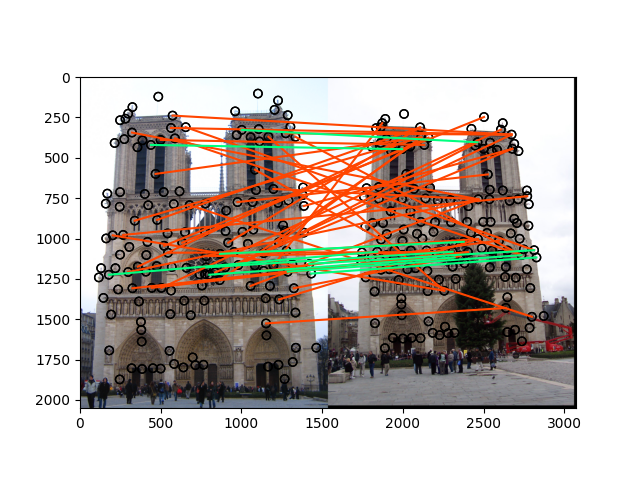
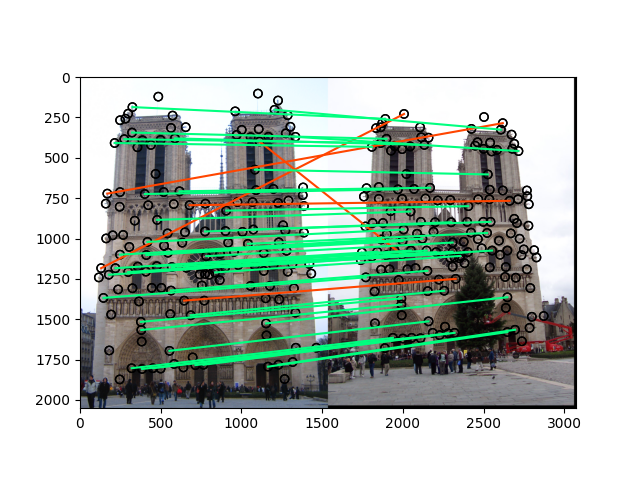
90% accuracy on notre_dame

Changed region(s): [[0.1562, 0.2188, 0.8438, 0.7812]]

diff --git a/HW2/code/student.py b/HW2/code/student.py
@@ -219,7 +219,7 @@ def get_features(image, x, y, feature_width):
         num_rows = len(im)
         num_cols = len(im[0])
 
-        orientations = [0, np.pi/6, np.pi/2, 5*np.pi/6]
+        orientations = [0, np.pi/4, np.pi/2, 3*np.pi/4, np.pi, 5*np.pi/4, 3*np.pi/2, 7*np.pi/4]
         gray_mags = []
         magnitude_array = []
         
@@ -260,6 +260,7 @@ def get_features(image, x, y, feature_width):
     # magnitude = np.sqrt(dx**2 + dy**2)
     # direction = np.arctan2(dy, dx)
 
+    # method 0, using the oriented filter
     # magnitude, direction, filter_set = orientedFilterMagnitude(image)
 
     # STEP 3: For each interest point, calculate the local histogram based on related 4x4 grid cells.
@@ -267,6 +268,7 @@ def get_features(image, x, y, feature_width):
     #         For each cell, we assign these gradient vectors corresponding to these pixels to 8 bins
     #         based on the direction (angle) of the gradient vectors. 
 
+    # Method 1: gradient calculation
     image_blurred = cv2.GaussianBlur(image, (5, 5), 1)
 
     sobel_x = np.array([[1, 0, -1], [2, 0, -2], [1, 0, -1]])
@@ -275,22 +277,41 @@ def get_features(image, x, y, feature_width):
     x_gradient = cv2.filter2D(image_blurred, -1, sobel_x)
     y_gradient = cv2.filter2D(image_blurred, -1, sobel_y)
     direction = np.arctan2(y_gradient, x_gradient)
+    direction = (direction + 2*np.pi) % (2*np.pi)
     magnitude = np.sqrt(x_gradient**2 + y_gradient**2)
+
+    # print(f"direction max: {np.max(direction)}")
+    # print(f"direction min: {np.min(direction)}")
+
+    # Method 2: gradient calculation using skimage, this performs worse for some reason
+    # image_blurred = filters.gaussian(image, sigma=1)
+    # x_gradient = filters.sobel_v(image_blurred)
+    # y_gradient = filters.sobel_h(image_blurred)
+    # direction = np.arctan2(y_gradient, x_gradient)
+    # magnitude = np.sqrt(x_gradient**2 + y_gradient**2)
+
+    print(f"all X: {x}")
+    print(f"all Y: {y}")
+
+    plt.imshow(magnitude, cmap='gray')
 
     features = []
 
     def normalize_array(arr):
-        min_val = np.min(arr)
-        max_val = np.max(arr)
-        normalized_arr = (arr - min_val) / (max_val - min_val)
+        normalized_arr = arr / np.linalg.norm(arr)
         return normalized_arr
 
+    # dirs_considered = []
+    # indices = []
 
     # Iterate over keypoints
-    for x_coordinate, y_coordinate in zip(x, y):
+    for y_coordinate, x_coordinate in zip(x, y):
 
         x_coordinate = int(x_coordinate)
         y_coordinate = int(y_coordinate)
+
+        # get the gradient vector for the center pixel
+        # center_pixel_direction = direction[x_coordinate][y_coordinate] # this shouldn't be breaking, we aren't out of the image
 
         # Compute histogram of gradients
         histogram16x16 = []
@@ -307,7 +328,10 @@ def get_features(image, x, y, feature_width):
                         if original_x < 0 or original_x >= image.shape[0] or original_y < 0 or original_y >= image.shape[1]:
                             continue
 
-                        histogram4x4[int(direction[original_x][original_y] / (np.pi / 4))] += magnitude[original_x, original_y]
+                        # histogram4x4[int(direction[original_x][original_y] / (np.pi / 4))] += magnitude[original_x, original_y]
+                        histogram4x4[int((direction[original_x][original_y]) / (np.pi / 4))] += 1         # more accuracy as of now
+                        # dirs_considered.append(direction[original_x][original_y])
+                        # indices.append(int(direction[original_x][original_y] / (np.pi / 4)))
                         
                         # histogram4x4[int(direction[original_x][original_y] / (np.pi / 4))] += 1
                 # histogram4x4 /= np.linalg.norm(histogram4x4)
@@ -318,6 +342,10 @@ def get_features(image, x, y, feature_width):
         histogram16x16 = normalize_array(histogram16x16)
         features.append(histogram16x16)
 
+    # print(f"dirs considered max: {np.max(dirs_considered)}")
+    # print(f"dirs considered min: {np.min(dirs_considered)}")
+    # print(f"indices max: {np.max(indices)}")
+    # print(f"indices min: {np.min(indices)}")
 
     # STEP 4: Now for each cell, we have a 8-dimensional vector. Appending the vectors in the 4x4 cells,
     #         we have a 128-dimensional feature.
@@ -333,7 +361,20 @@ def get_features(image, x, y, feature_width):
 
     # This is a placeholder - replace this with your features!
     # features = np.zeros((len(x),128))
+    
+    # [(613.3341121495325, 72.62383177570086)]
+    # [(541.2344479004664, 142.65590979782246)]
 
+    # find index of 613.3341121495325 in x
+    # idx_x1 = np.where(x == 613.3341121495325)
+    # print(f"idx_x1: {idx_x1}")
+
+    # idx_x2 = np.where(x == 541.2344479004664)
+    # print(f"idx_x2: {idx_x2}")
+    print(f"at 3: {x[3]}, {y[3]}")
+    print(list(features[3]))
+
+    
     return features
 
 
@@ -384,19 +425,24 @@ def match_features(im1_features, im2_features):
     D = np.sqrt(A + B)
     # STEP 2: Sort and find closest features for each feature, then performs NNDR test.
 
-    threshold = 0.97
+    threshold = 0.95
+
+    # ratios = []
 
     matches = []
     confidences = []
     for i in range(D.shape[0]):
         sorted_indices = np.argsort(D[i])
         ratio = D[i][sorted_indices[0]] / D[i][sorted_indices[1]] if D[i][sorted_indices[1]] != 0 else 0
+        # ratios.append(ratio)
         if ratio < threshold:
             matches.append([i, sorted_indices[0]])
             confidences.append(1 - D[i][sorted_indices[0]] / D[i][sorted_indices[1]])
     matches = np.array(matches)
     confidences = np.array(confidences)
     
+    # print("ratios: ", ratios)
+
     # BONUS: Using PCA might help the speed (but maybe not the accuracy).
 
     # matches = np.zeros((1,2))

diff --git a/HW2/code/main.py b/HW2/code/main.py
@@ -144,6 +144,36 @@ def main():
 
     (x1, y1, x2, y2) = cheat_interest_points(eval_file, scale_factor)
 
+    # print(f"x1: {x1[3]}")
+    # print(f"y1: {y1[3]}")
+    # print(f"x2: {x2[3]}")        
+    # print(f"y2: {y2[3]}")
+
+    # filtered_first = []
+    # for i in range(len(x1)):
+    #     x = x1[i]
+    #     y = y1[i]
+    #     if x > 600 and x < 620 and y > 65 and y < 75:
+    #         print(f"i: {i}")
+    #         filtered_first.append((x,y))
+    #     if y > 600 and y < 620 and x > 65 and x < 75:
+    #         print(f"i: {i}")
+    #         filtered_first.append((x,y))
+    
+    # filtered_second = []
+    # for i in range(len(x2)):
+    #     x = x2[i]
+    #     y = y2[i]
+    #     if x > 535 and x < 545 and y > 135 and y < 146:
+    #         print(f"i: {i}")
+    #         filtered_second.append((x,y))
+    #     if y > 535 and y < 545 and x > 135 and x < 146:
+    #         print(f"i: {i}")
+    #         filtered_second.append((x,y))
+
+    # print(f"filtered_first: {filtered_first}")
+    # print(f"filtered_second: {filtered_second}")
+
 
     # Viewing your interest points on your images.
     # !!! You will need to implement plot_interest_points. !!!
@@ -157,7 +187,9 @@ def main():
 
     print("Getting features...")
 
+    print("features for image 1")
     image1_features = student.get_features(image1, x1, y1, feature_width)
+    print("features for image 2")
     image2_features = student.get_features(image2, x2, y2, feature_width)
 
     print("Done!")
